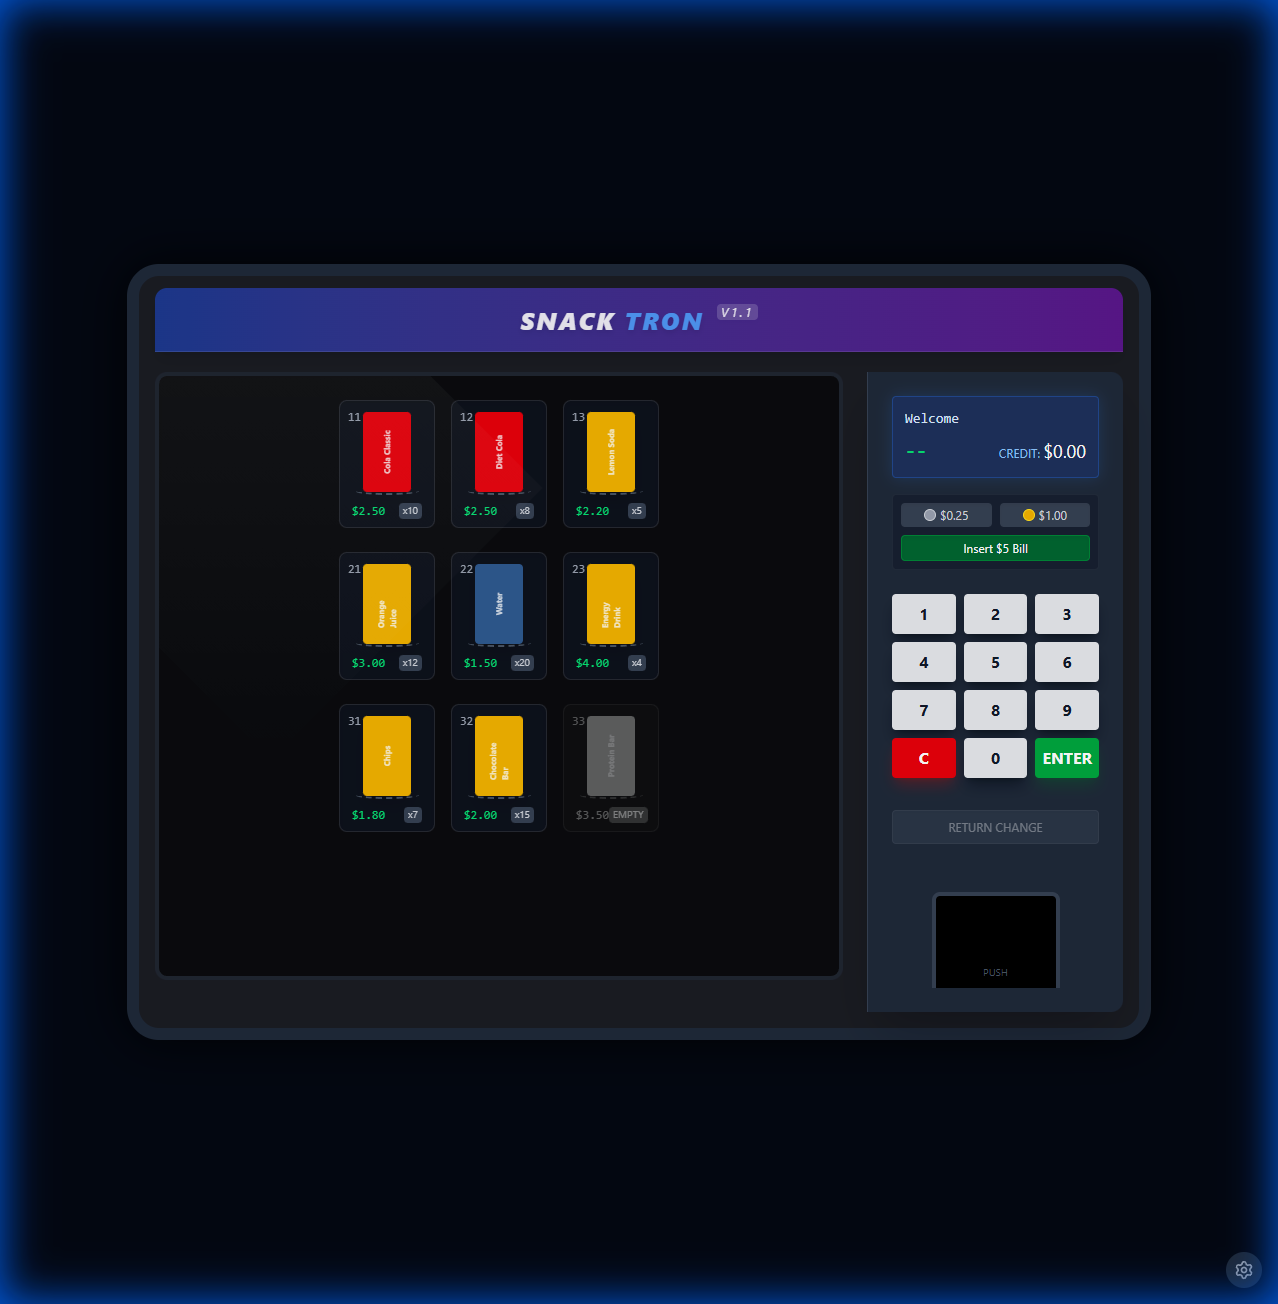
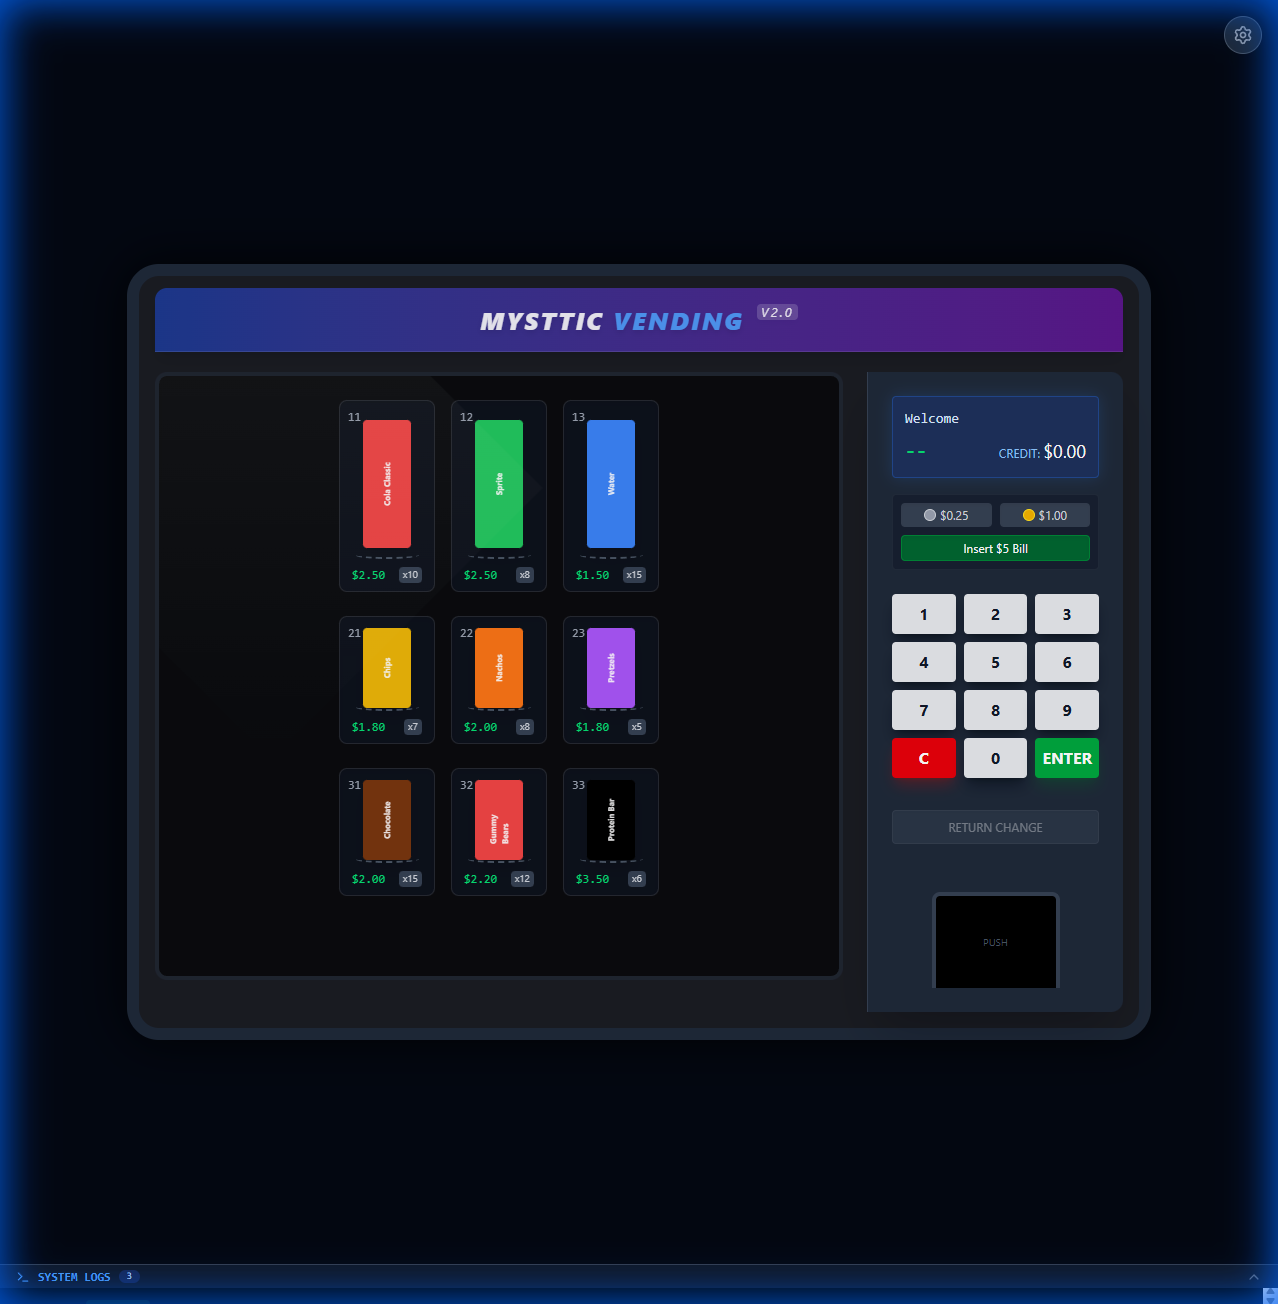
feat: Create the core Vending Machine UI component, client README, and supporting images.

diff --git a/client/src/components/VendingMachine.jsx b/client/src/components/VendingMachine.jsx
@@ -28,8 +28,8 @@ export const VendingMachine = () => {
                 {/* Top Logo Panel */}
                 <div className="absolute top-0 left-0 right-0 h-16 bg-gradient-to-r from-blue-900 to-purple-900 rounded-t-xl z-0 mx-4 mt-3 flex items-center justify-center shadow-lg border-b border-white/10">
                     <h1 className="text-2xl font-black text-white tracking-widest uppercase italic drop-shadow-md opacity-90">
-                        SNACK <span className="text-blue-400">TRON</span> <span className="text-xs align-top font-normal bg-white/20 px-1 rounded ml-1">v2.0</span>
-                    </h1>
+                MYSTTIC <span className="text-blue-400">VENDING</span> <span className="text-xs align-top font-normal bg-white/20 px-1 rounded ml-1">v2.0</span>
+            </h1>
                 </div>
 
                 {/* Glass Window Area */}

diff --git a/client/README.md b/client/README.md
@@ -18,7 +18,7 @@ The application will launch on `http://localhost:5173`.
 
 ### 1. Main Interface
 The user interface mimics a physical machine.
-- **Top:** "SNACK TRON" Branding.
+- **Top:** "MYSTTIC VENDING" Branding.
 - **Center:** Glass window showing products with real-time stock levels. Empty slots are visually dimmed.
 - **Right:** Control Panel (LCD Display, Coin Slots, Keypad).
 - **Bottom:** Collapsible **Debug Logs** panel.
